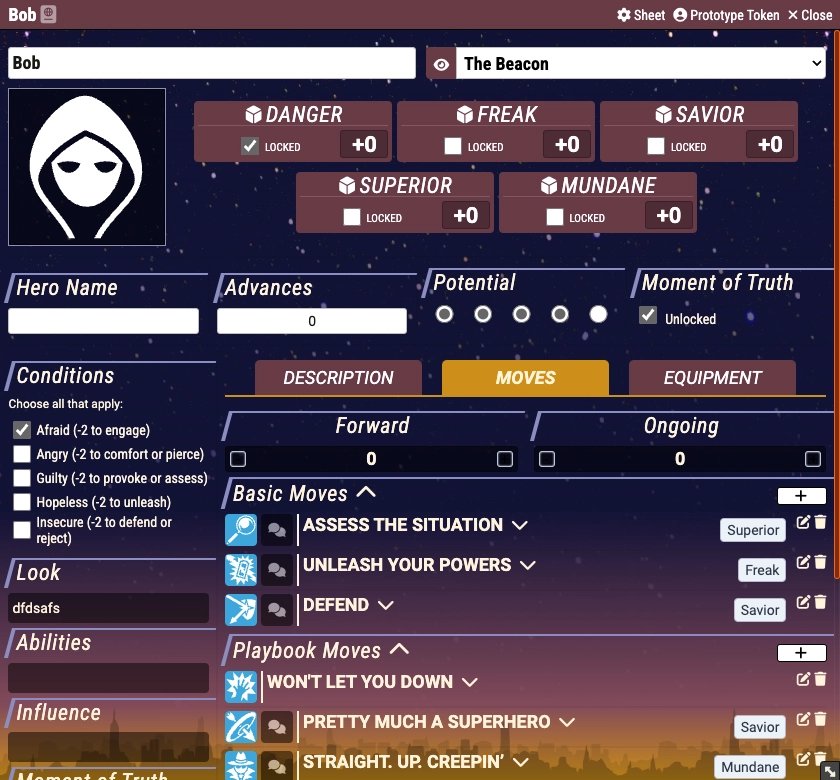
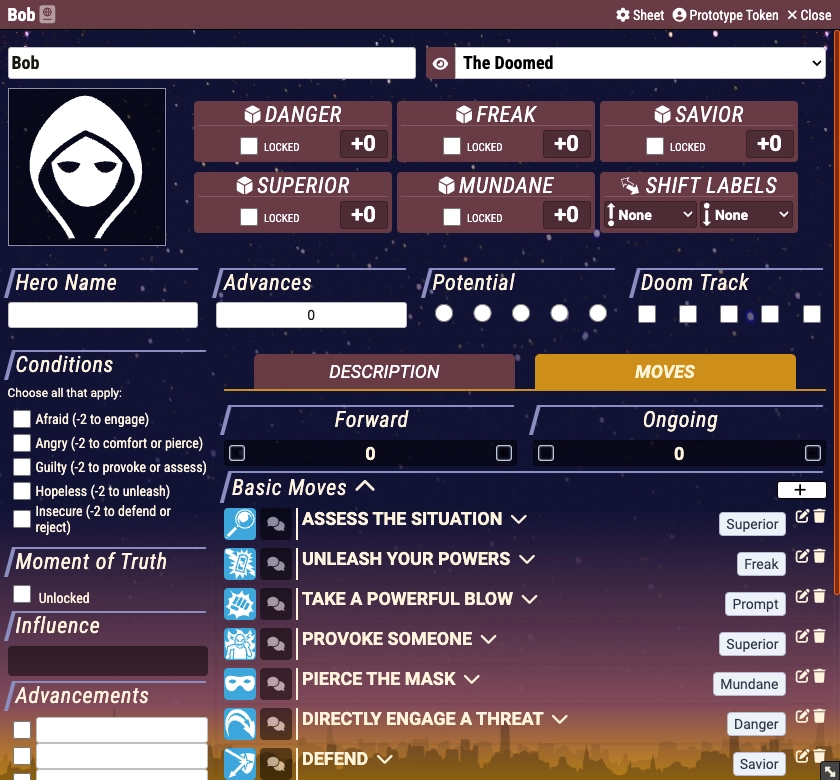
Release updates

diff --git a/README.md b/README.md
@@ -19,12 +19,12 @@ This module is a prerequisite for Masks: A New Generation Sheets (https://foundr
 - NPC Character Sheets
 - Light and Dark designs with a setting to switch them
 - Compendium of moves
+- Easy Label switching
+- Better description fields
+- Most playbooks have unique attributes to track, once they are added to the character sheet
 
 ## TODO
 - Team Pool Tracker
-- Easy Label switching
-- Better Descriptions fields
-- Ability to create custom resource fields
 - Improved Influences interface
 
 # Install

diff --git a/CHANGELOG.md b/CHANGELOG.md
@@ -1,3 +1,11 @@
+#1.4.2
+- Easy Label switching (can be turned on and off in the settings)
+- Better Descriptions fields
+- Most playbooks have unique attributes to track when chosen on the character sheet
+- Hid the EQ tab
+- Sheet Config clean up (added all the strings to en.json)
+- Basic moves are auto added to new character sheets
+
 #1.4.1
 - Cleaned up the Basic Moves & Basic Playbook Moves (all others to come)
 - Added code to automatically add Basic Moves to a character sheet when it is created
